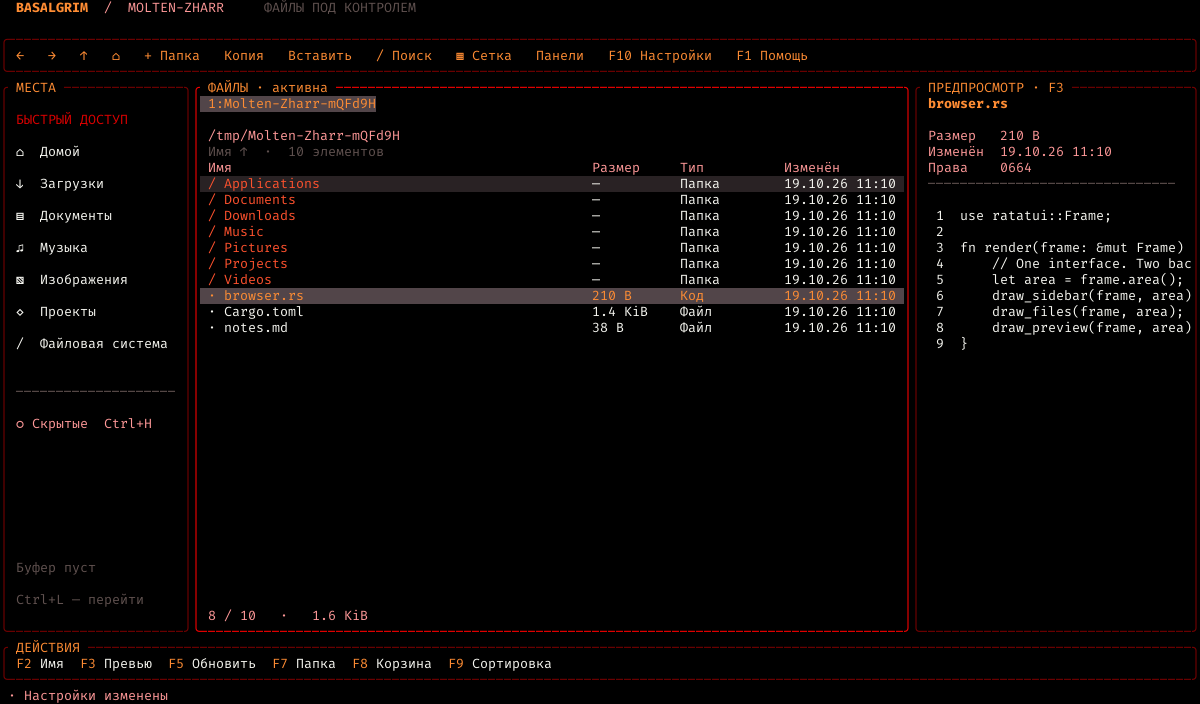
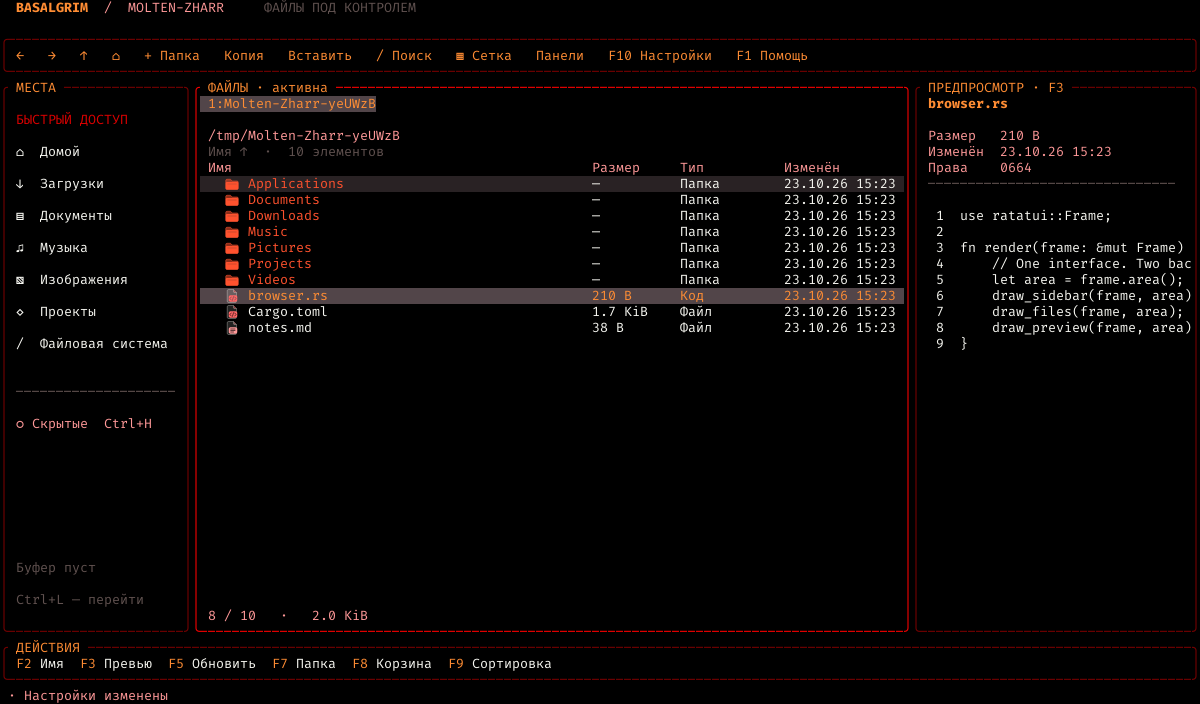
docs: simplify README and refresh interface screenshots
Keep the README to a short purpose statement, current screenshot, and documentation link. Move launch, settings, workflow, and architecture details into docs/USAGE.md and refresh screenshots from the actual shared interface with SVG icons.

diff --git a/README.md b/README.md
@@ -1,127 +1,7 @@
 # Basalgrim
 
-Файловый менеджер **Molten-Zharr**. Первый рабочий срез для Linux на Rust, Ratatui и egui.
+Файловый менеджер для Linux из Molten-Zharr. Помогает просматривать папки и работать с файлами в окне или терминале — мышью и клавиатурой.
 
-Как в [Almavorn](https://github.com/Molten-Zharr/Almavorn), состояние приложения, действия, раскладка и отрисовка общие для двух вариантов запуска: терминального TUI и оконного GUITUI. Компоновка вдохновлена [tfm-tui](https://github.com/clarkarch/tfm-tui): места слева, файлы в центре, предпросмотр справа. Код tfm-tui не используется.
+![Basalgrim](assets/screenshots/grid.png)
 
-Фирменная палитра взята из локального Almavorn: чёрный фон, красные рамки, оранжевое выделение, Fira Code. JSON в [assets/brand/molten-zharr.json](assets/brand/molten-zharr.json) определяет общие роли цветов и исходную палитру Molten-Zharr. Дополнительные темы и настройки оформления адаптированы из Almavorn; пользовательские цвета хранятся в настройках. Встроенные SVG-иконки папок и типов файлов окрашиваются текущей палитрой. В терминале без графического протокола используются символы; Nerd Font не требуется.
-
-![Basalgrim: сетка и предпросмотр](assets/screenshots/grid.png)
-
-## Запуск
-
-Проверено с Rust 1.99.0 на Linux. GUITUI требует графическую сессию Wayland/X11 и OpenGL. Терминальная сборка не включает egui, eframe и растеризацию шрифтов.
-
-```sh
-# Оконное приложение; путь необязателен, по умолчанию текущая папка
-cargo run --release -- /путь/к/папке
-
-# Только терминал
-cargo run --release --no-default-features --features tui --bin basalgrim-tui -- /путь/к/папке
-```
-
-`gio` нужен для системной корзины, `xdg-open` — для открытия файлов внешними приложениями. В Debian/Ubuntu: `sudo apt install libglib2.0-bin xdg-utils`. Без этих программ просмотр каталогов и остальные операции работают; соответствующее действие покажет ошибку.
-
-## Что уже работает
-
-- Места, переход по пути с `~`, история назад/вперёд, вкладки и две независимые панели.
-- Сетка и список, сортировка по имени/размеру/дате, скрытые файлы, фильтр текущей папки.
-- Графические иконки в сетке и списке: папки, документы, код, архивы, изображения, аудио, видео, PDF, приложения, шрифты и ссылки. В TUI автоматически проверяются Kitty/Sixel; для совместимых терминалов поддерживается iTerm2. Без графики используется символьный вариант. В настройках можно предпочесть символы и при доступной графике.
-- Текстовый предпросмотр, информация о файле, содержимое папки и ссылки. Чтение ограничено 64 KiB / 300 строками; специальные файлы не читаются.
-- Клавиатура, щелчок, двойной щелчок, Ctrl+щелчок и колесо мыши в обоих интерфейсах.
-- Лёгкая подсветка при наведении на файлы, папки, кнопки, вкладки и элементы настроек. Она не меняет выбор и не запускает команды; выбранный элемент сохраняет основное выделение. В TUI используются события движения мыши от терминала.
-- Множественный выбор, внутренний буфер копирования/вырезания, вставка, создание файлов/папок, переименование.
-- Отправка в системную корзину после подтверждения. Восстановление — через корзину рабочего стола.
-- Общие настройки вида в `$XDG_CONFIG_HOME/molten-zharr/basalgrim/settings.json` (обычно `~/.config/…`), атомарное сохранение. Повреждённый файл настроек сохраняется, приложение использует значения по умолчанию без записи поверх него.
-- Экран настроек GUI/TUI: четыре темы, редактирование палитры, три шрифта, размер и геометрия рамок; переназначение клавиш с проверкой конфликтов.
-
-## Управление
-
-| Клавиши | Действие |
-| --- | --- |
-| Стрелки, Home/End, PageUp/PageDown | Навигация |
-| Enter / двойной щелчок | Открыть |
-| Backspace / Alt+↑ | Родительская папка |
-| Alt+← / Alt+→ | История |
-| Alt+Home / Ctrl+L | Домой / ввод пути |
-| `/` / Ctrl+F | Фильтр текущей папки |
-| Ctrl+G / Ctrl+D / Tab | Сетка–список / две панели / смена панели |
-| Ctrl+T / Ctrl+W / Ctrl+Tab | Новая / закрыть / следующая вкладка |
-| Space / Ctrl+A / Esc | Отметить / выбрать все видимые / сбросить выбор и фильтр |
-| Ctrl+C / Ctrl+X / Ctrl+V | Копировать / вырезать / вставить |
-| F2 | Переименовать |
-| Ctrl+Shift+N или F7 / Ctrl+N | Новая папка / новый файл |
-| Delete или F8 | В корзину |
-| F3 / F5 / F9 | Предпросмотр / обновить / сортировка |
-| Ctrl+H | Скрытые файлы |
-| Ctrl+`+` / Ctrl+`−` | Размер шрифта GUITUI |
-| F1 / Ctrl+Q | Справка / выход |
-| F10 / Ctrl+, | Настройки |
-| Ctrl+U в поле ввода | Очистить поле |
-
-Фильтр обновляется при вводе; Enter сохраняет его, Esc возвращает предыдущее значение. Текст редактируется в конце строки. В терминалах сочетания с Ctrl+Shift и Ctrl+Tab могут не передаваться; F7 доступна для создания папки, вкладку можно выбрать мышью. Размер шрифта TUI задаёт терминал.
-
-## Настройки
-
-Откройте **Настройки** на панели команд, нажмите `F10` или `Ctrl+,`. Экран устроен как в Almavorn: разделы слева, параметры справа, описание выбранного пункта и состояние сохранения снизу. Мышь и клавиатура работают в обоих вариантах запуска.
-
-- `Tab` / `Shift+Tab` переключают фокус между разделами, вкладками темы и параметрами. `↑`/`↓`, Home/End и PageUp/PageDown перемещают выбор; `←`/`→` меняют значение; Enter открывает редактор или выполняет действие; Esc возвращает назад.
-- **Темы → Пресеты**: Molten-Zharr, Classic Amber, Classic Violet и Light. Выбор темы меняет палитру, сохраняя выбранные шрифт и геометрию. **Сбросить оформление** возвращает исходное оформление целиком.
-- **Темы → Палитра**: нажмите на HEX-значение или Enter, введите `#RRGGBB`; `Ctrl+U` очищает поле. Изменения цветов сохраняются отдельно для каждой темы. Сброс цветов затрагивает только текущую тему.
-- **Темы → Шрифт и геометрия**: Fira Code, Fira Code Bold, DejaVu Sans Mono; размер 10–32; рамки без обводки, одинарные, двойные или толстые; прямые/скруглённые углы одинарной рамки. Шрифт в окне меняется сразу, с учётом масштаба экрана. В TUI эти параметры сохраняются для оконного запуска; шрифт самого терминала контролирует терминал.
-- **Темы → Иконки**: **Изображения** или **Символы**, переключение стрелками, Enter или мышью. Выбор применяется сразу и сохраняется. Если терминал не поддерживает изображения, приложение показывает символы и сохраняет предпочтение для GUI или другого терминала. Изображения в окне масштабируются под размер шрифта и DPI; наведение и выделение сохраняют свой фон.
-- **Клавиши**: выберите команду и Enter, затем нажмите новое сочетание либо выберите модификаторы и клавишу мышью. Колесо прокручивает список клавиш. Esc отменяет захват. Delete на строке команды возвращает исходное сочетание, первая строка восстанавливает все назначения.
-
-Сочетания проверяются на точное совпадение модификаторов и конфликты. Стрелки, Home/End, PageUp/PageDown и Esc зарезервированы для навигации; Enter, Tab, Space и Backspace доступны для своих действий. `Ctrl+U` сохраняет значение очистки поля ввода. В диалоге захвата нажатия не запускают команды приложения. Подсказки в справке и панели действий обновляются после переназначения. Таблица выше показывает исходные назначения.
-
-Настройки применяются сразу и сохраняются автоматически. Старый JSON, в том числе прежний `font_size`, загружается с исходными значениями новых полей. Ошибка записи отображается внизу экрана, изменения остаются в памяти; `Ctrl+S` или щелчок на сообщении повторяет сохранение. Если исходный файл повреждён или содержит конфликтующие сочетания, он сохраняется без перезаписи, а автосохранение отключается для этого запуска.
-
-![Basalgrim: настройки оформления](assets/screenshots/settings-fonts.png)
-
-## Файловые операции
-
-Существующая цель, включая сломанную символическую ссылку, вызывает ошибку. На Linux переименование и перемещение используют атомарный `RENAME_NOREPLACE`. Копирование сначала создаёт временное дерево в целевой файловой системе и публикует готовый элемент через то же переименование. При ошибке до публикации временное дерево удаляется. Символические ссылки копируются как ссылки; специальные файлы отклоняются.
-
-Каждый элемент пакета выполняется отдельно. При первой ошибке пакет останавливается, интерфейс сообщает число завершённых элементов и причину. Уже завершённые элементы остаются; неудавшиеся элементы вырезания сохраняются в буфере. Автоматического отката пакета пока нет. Это предотвращает скрытое повторное перемещение уже завершённых элементов.
-
-Перемещение пока работает **в пределах одной файловой системы**. Между файловыми системами можно копировать, затем отдельно отправлять оригиналы в корзину. Копирование сохраняет обычные права доступа, но пока не переносит timestamps, ACL, xattrs и структуру жёстких ссылок. Снимок одновременно изменяемого дерева не гарантируется. Выход через интерфейс блокируется до завершения файловой операции.
-
-## Устройство проекта
-
-| Файл | Ответственность |
-| --- | --- |
-| `src/app.rs`, `src/app/` | Общие действия, навигация, диалоги, обработка ввода и результатов |
-| `src/model.rs` | Панели, вкладки, выбор, фильтр и история |
-| `src/worker.rs` | Три фоновых исполнителя: каталоги, предпросмотр, операции |
-| `src/fs.rs` | Чтение, предпросмотр и файловые операции |
-| `src/ui.rs`, `src/ui/` | Общая отрисовка Ratatui и области щелчков |
-| `src/main.rs`, `src/raster.rs` | egui/eframe, egui_ratatui, Fira Code и ввод GUITUI |
-| `src/icons.rs`, `src/icons/`, `assets/icons/` | Типы и области иконок, SVG-растеризация, проверка терминала и фоновое кодирование графики |
-| `src/bin/tui.rs` | Crossterm, мышь, вставка текста, восстановление терминала |
-| `src/settings.rs` | JSON-настройки с serde defaults и атомарным сохранением |
-| `src/preferences.rs`, `src/app/settings.rs`, `src/ui/settings.rs` | Палитры и шрифты, управление экраном настроек и его общий рендер |
-
-Результаты чтения каталогов проверяются по идентификатору запроса вкладки. Предпросмотр использует отдельную очередь с выбором последнего запроса. Длительные операции не исполняются в потоке интерфейса. Состояние выделения и данные файлов используют `PathBuf`, отображаемые имена очищаются от управляющих символов.
-
-## Проверка и изображения интерфейса
-
-```sh
-cargo fmt --check
-cargo clippy --all-features --all-targets -- -D warnings
-cargo test --all-features --all-targets
-cargo test --no-default-features --features tui --all-targets
-cargo run --example preview
-
-# Проверка настоящего TUI в PTY с отдельной корзиной и настройками
-cargo build --no-default-features --features tui --bin basalgrim-tui
-python3 scripts/smoke_tui.py
-python3 scripts/smoke_icons.py
-```
-
-`cargo run --example preview` создаёт PPM-снимки реального рендера в `target/preview/`: сетка, список, две панели, компактный интерфейс, справка, светлая тема и страницы настроек. Графическая сессия для неё не нужна. Демонстрационные файлы создаются во временной папке. PTY-проверка дополнительно проверяет редактор шрифта, тему, захват сочетаний и восстановление настроек после перезапуска.
-
-`smoke_icons.py` эмулирует ответы терминалов Kitty/Sixel/iTerm2 и терминал без графики, включая отсутствие любых ответов. Проверяет вывод изображений или символов, переключение и сохранение режима, изменение размеров, последующий ввод и восстановление терминала. Подготовка и кодирование терминальных изображений выполняются в отдельном потоке с проверкой идентификатора запроса и поколения кэша. Проверка возможностей ограничена 500 мс и завершается до запуска обработчика ввода; настройки терминала или tmux автоматически не меняются.
-
-## Следующие этапы
-
-Это основа приложения; функциональный паритет с tfm-tui ещё не достигнут. План продолжения — [docs/ROADMAP.md](docs/ROADMAP.md): прогресс и отмена операций, перемещение между файловыми системами, журнал undo/redo, изображения, контекстные меню и встроенный терминал.
+[Документация](docs/USAGE.md)

diff --git a/docs/USAGE.md b/docs/USAGE.md
@@ -1,0 +1,121 @@
+# Руководство Basalgrim
+
+## Запуск
+
+Проверено с Rust 1.99.0 на Linux. GUITUI требует графическую сессию Wayland/X11 и OpenGL. Терминальная сборка не включает egui, eframe и растеризацию шрифтов.
+
+```sh
+# Оконное приложение; путь необязателен, по умолчанию текущая папка
+cargo run --release -- /путь/к/папке
+
+# Только терминал
+cargo run --release --no-default-features --features tui --bin basalgrim-tui -- /путь/к/папке
+```
+
+`gio` нужен для системной корзины, `xdg-open` — для открытия файлов внешними приложениями. В Debian/Ubuntu: `sudo apt install libglib2.0-bin xdg-utils`. Без этих программ просмотр каталогов и остальные операции работают; соответствующее действие покажет ошибку.
+
+## Что уже работает
+
+- Места, переход по пути с `~`, история назад/вперёд, вкладки и две независимые панели.
+- Сетка и список, сортировка по имени/размеру/дате, скрытые файлы, фильтр текущей папки.
+- Графические иконки в сетке и списке: папки, документы, код, архивы, изображения, аудио, видео, PDF, приложения, шрифты и ссылки. В TUI автоматически проверяются Kitty/Sixel; для совместимых терминалов поддерживается iTerm2. Без графики используется символьный вариант. В настройках можно предпочесть символы и при доступной графике.
+- Текстовый предпросмотр, информация о файле, содержимое папки и ссылки. Чтение ограничено 64 KiB / 300 строками; специальные файлы не читаются.
+- Клавиатура, щелчок, двойной щелчок, Ctrl+щелчок и колесо мыши в обоих интерфейсах.
+- Лёгкая подсветка при наведении на файлы, папки, кнопки, вкладки и элементы настроек. Она не меняет выбор и не запускает команды; выбранный элемент сохраняет основное выделение. В TUI используются события движения мыши от терминала.
+- Множественный выбор, внутренний буфер копирования/вырезания, вставка, создание файлов/папок, переименование.
+- Отправка в системную корзину после подтверждения. Восстановление — через корзину рабочего стола.
+- Общие настройки вида в `$XDG_CONFIG_HOME/molten-zharr/basalgrim/settings.json` (обычно `~/.config/…`), атомарное сохранение. Повреждённый файл настроек сохраняется, приложение использует значения по умолчанию без записи поверх него.
+- Экран настроек GUI/TUI: четыре темы, редактирование палитры, три шрифта, размер и геометрия рамок; переназначение клавиш с проверкой конфликтов.
+
+## Управление
+
+| Клавиши | Действие |
+| --- | --- |
+| Стрелки, Home/End, PageUp/PageDown | Навигация |
+| Enter / двойной щелчок | Открыть |
+| Backspace / Alt+↑ | Родительская папка |
+| Alt+← / Alt+→ | История |
+| Alt+Home / Ctrl+L | Домой / ввод пути |
+| `/` / Ctrl+F | Фильтр текущей папки |
+| Ctrl+G / Ctrl+D / Tab | Сетка–список / две панели / смена панели |
+| Ctrl+T / Ctrl+W / Ctrl+Tab | Новая / закрыть / следующая вкладка |
+| Space / Ctrl+A / Esc | Отметить / выбрать все видимые / сбросить выбор и фильтр |
+| Ctrl+C / Ctrl+X / Ctrl+V | Копировать / вырезать / вставить |
+| F2 | Переименовать |
+| Ctrl+Shift+N или F7 / Ctrl+N | Новая папка / новый файл |
+| Delete или F8 | В корзину |
+| F3 / F5 / F9 | Предпросмотр / обновить / сортировка |
+| Ctrl+H | Скрытые файлы |
+| Ctrl+`+` / Ctrl+`−` | Размер шрифта GUITUI |
+| F1 / Ctrl+Q | Справка / выход |
+| F10 / Ctrl+, | Настройки |
+| Ctrl+U в поле ввода | Очистить поле |
+
+Фильтр обновляется при вводе; Enter сохраняет его, Esc возвращает предыдущее значение. Текст редактируется в конце строки. В терминалах сочетания с Ctrl+Shift и Ctrl+Tab могут не передаваться; F7 доступна для создания папки, вкладку можно выбрать мышью. Размер шрифта TUI задаёт терминал.
+
+## Настройки
+
+Откройте **Настройки** на панели команд, нажмите `F10` или `Ctrl+,`. Экран устроен как в Almavorn: разделы слева, параметры справа, описание выбранного пункта и состояние сохранения снизу. Мышь и клавиатура работают в обоих вариантах запуска.
+
+- `Tab` / `Shift+Tab` переключают фокус между разделами, вкладками темы и параметрами. `↑`/`↓`, Home/End и PageUp/PageDown перемещают выбор; `←`/`→` меняют значение; Enter открывает редактор или выполняет действие; Esc возвращает назад.
+- **Темы → Пресеты**: Molten-Zharr, Classic Amber, Classic Violet и Light. Выбор темы меняет палитру, сохраняя выбранные шрифт и геометрию. **Сбросить оформление** возвращает исходное оформление целиком.
+- **Темы → Палитра**: нажмите на HEX-значение или Enter, введите `#RRGGBB`; `Ctrl+U` очищает поле. Изменения цветов сохраняются отдельно для каждой темы. Сброс цветов затрагивает только текущую тему.
+- **Темы → Шрифт и геометрия**: Fira Code, Fira Code Bold, DejaVu Sans Mono; размер 10–32; рамки без обводки, одинарные, двойные или толстые; прямые/скруглённые углы одинарной рамки. Шрифт в окне меняется сразу, с учётом масштаба экрана. В TUI эти параметры сохраняются для оконного запуска; шрифт самого терминала контролирует терминал.
+- **Темы → Иконки**: **Изображения** или **Символы**, переключение стрелками, Enter или мышью. Выбор применяется сразу и сохраняется. Если терминал не поддерживает изображения, приложение показывает символы и сохраняет предпочтение для GUI или другого терминала. Изображения в окне масштабируются под размер шрифта и DPI; наведение и выделение сохраняют свой фон.
+- **Клавиши**: выберите команду и Enter, затем нажмите новое сочетание либо выберите модификаторы и клавишу мышью. Колесо прокручивает список клавиш. Esc отменяет захват. Delete на строке команды возвращает исходное сочетание, первая строка восстанавливает все назначения.
+
+Сочетания проверяются на точное совпадение модификаторов и конфликты. Стрелки, Home/End, PageUp/PageDown и Esc зарезервированы для навигации; Enter, Tab, Space и Backspace доступны для своих действий. `Ctrl+U` сохраняет значение очистки поля ввода. В диалоге захвата нажатия не запускают команды приложения. Подсказки в справке и панели действий обновляются после переназначения. Таблица выше показывает исходные назначения.
+
+Настройки применяются сразу и сохраняются автоматически. Старый JSON, в том числе прежний `font_size`, загружается с исходными значениями новых полей. Ошибка записи отображается внизу экрана, изменения остаются в памяти; `Ctrl+S` или щелчок на сообщении повторяет сохранение. Если исходный файл повреждён или содержит конфликтующие сочетания, он сохраняется без перезаписи, а автосохранение отключается для этого запуска.
+
+![Basalgrim: настройки оформления](../assets/screenshots/settings-fonts.png)
+
+![Basalgrim: выбор изображений или символов для иконок](../assets/screenshots/settings-icons.png)
+
+## Файловые операции
+
+Существующая цель, включая сломанную символическую ссылку, вызывает ошибку. На Linux переименование и перемещение используют атомарный `RENAME_NOREPLACE`. Копирование сначала создаёт временное дерево в целевой файловой системе и публикует готовый элемент через то же переименование. При ошибке до публикации временное дерево удаляется. Символические ссылки копируются как ссылки; специальные файлы отклоняются.
+
+Каждый элемент пакета выполняется отдельно. При первой ошибке пакет останавливается, интерфейс сообщает число завершённых элементов и причину. Уже завершённые элементы остаются; неудавшиеся элементы вырезания сохраняются в буфере. Автоматического отката пакета пока нет. Это предотвращает скрытое повторное перемещение уже завершённых элементов.
+
+Перемещение пока работает **в пределах одной файловой системы**. Между файловыми системами можно копировать, затем отдельно отправлять оригиналы в корзину. Копирование сохраняет обычные права доступа, но пока не переносит timestamps, ACL, xattrs и структуру жёстких ссылок. Снимок одновременно изменяемого дерева не гарантируется. Выход через интерфейс блокируется до завершения файловой операции.
+
+## Устройство проекта
+
+| Файл | Ответственность |
+| --- | --- |
+| `src/app.rs`, `src/app/` | Общие действия, навигация, диалоги, обработка ввода и результатов |
+| `src/model.rs` | Панели, вкладки, выбор, фильтр и история |
+| `src/worker.rs` | Три фоновых исполнителя: каталоги, предпросмотр, операции |
+| `src/fs.rs` | Чтение, предпросмотр и файловые операции |
+| `src/ui.rs`, `src/ui/` | Общая отрисовка Ratatui и области щелчков |
+| `src/main.rs`, `src/raster.rs` | egui/eframe, egui_ratatui, Fira Code и ввод GUITUI |
+| `src/icons.rs`, `src/icons/`, `assets/icons/` | Типы и области иконок, SVG-растеризация, проверка терминала и фоновое кодирование графики |
+| `src/bin/tui.rs` | Crossterm, мышь, вставка текста, восстановление терминала |
+| `src/settings.rs` | JSON-настройки с serde defaults и атомарным сохранением |
+| `src/preferences.rs`, `src/app/settings.rs`, `src/ui/settings.rs` | Палитры и шрифты, управление экраном настроек и его общий рендер |
+
+Результаты чтения каталогов проверяются по идентификатору запроса вкладки. Предпросмотр использует отдельную очередь с выбором последнего запроса. Длительные операции не исполняются в потоке интерфейса. Состояние выделения и данные файлов используют `PathBuf`, отображаемые имена очищаются от управляющих символов.
+
+## Проверка и изображения интерфейса
+
+```sh
+cargo fmt --check
+cargo clippy --all-features --all-targets -- -D warnings
+cargo test --all-features --all-targets
+cargo test --no-default-features --features tui --all-targets
+cargo run --example preview
+
+# Проверка настоящего TUI в PTY с отдельной корзиной и настройками
+cargo build --no-default-features --features tui --bin basalgrim-tui
+python3 scripts/smoke_tui.py
+python3 scripts/smoke_icons.py
+```
+
+`cargo run --example preview` создаёт PPM-снимки реального рендера в `target/preview/`: сетка, список, две панели, компактный интерфейс, справка, светлая тема и страницы настроек. Графическая сессия для неё не нужна. Демонстрационные файлы создаются во временной папке. PTY-проверка дополнительно проверяет редактор шрифта, тему, захват сочетаний и восстановление настроек после перезапуска.
+
+`smoke_icons.py` эмулирует ответы терминалов Kitty/Sixel/iTerm2 и терминал без графики, включая отсутствие любых ответов. Проверяет вывод изображений или символов, переключение и сохранение режима, изменение размеров, последующий ввод и восстановление терминала. Подготовка и кодирование терминальных изображений выполняются в отдельном потоке с проверкой идентификатора запроса и поколения кэша. Проверка возможностей ограничена 500 мс и завершается до запуска обработчика ввода; настройки терминала или tmux автоматически не меняются.
+
+## Следующие этапы
+
+Это основа приложения; функциональный паритет с tfm-tui ещё не достигнут. План продолжения — [план разработки](ROADMAP.md): прогресс и отмена операций, перемещение между файловыми системами, журнал undo/redo, изображения, контекстные меню и встроенный терминал.
